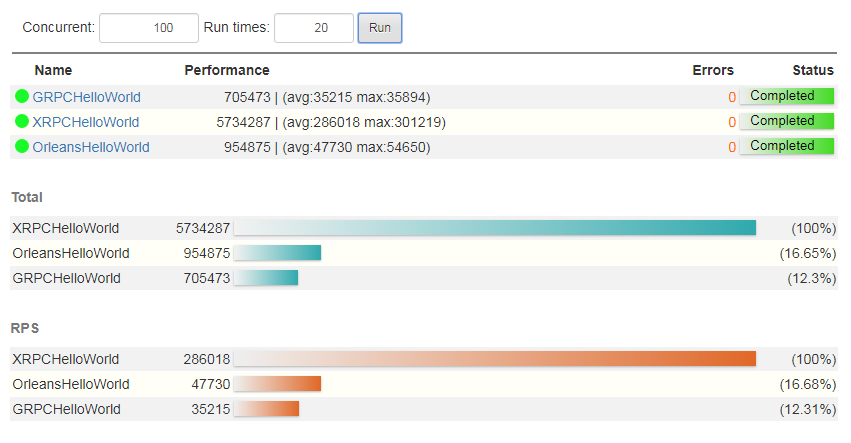
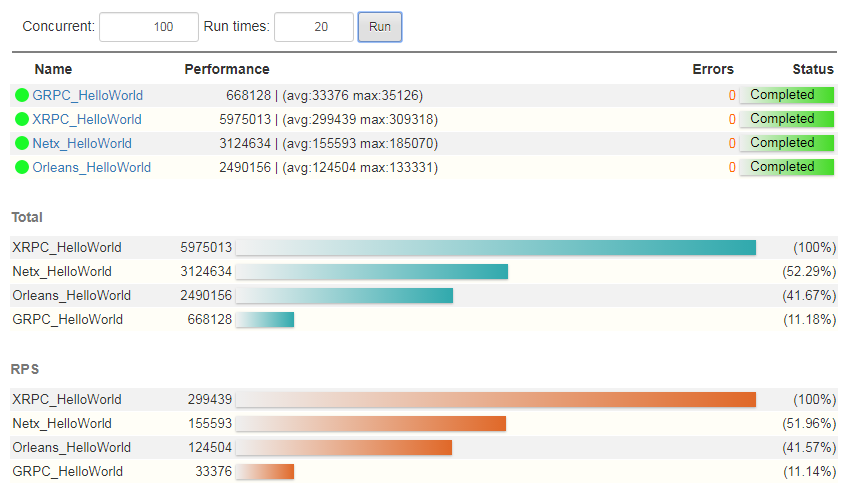
change orleans grpc netx examples

diff --git a/RPCBenchmark/Examples/NetXHelloWorld.cs b/RPCBenchmark/Examples/NetXHelloWorld.cs
@@ -10,36 +10,36 @@ namespace RPCBenchmark.Examples
 {
     public class NetxHandler
     {
-        public NetxHandler()
+        static NetxHandler()
         {
-            Client = new NetxSClientBuilder()
-                .ConfigConnection(p =>
-                {
-                    p.Host = Setting.SERVER_HOST;
-                    p.Port = 50054;
-                    p.VerifyKey = "11111";
-                    p.ServiceName = "hellowordservice";
-                    p.RequestTimeOut = 0;
-                })
-                .Build();
-            Greeter = Client.Get<ITestServer>();
-        }
-
-        public INetxSClient Client { get; private set; }
-
-        public ITestServer Greeter { get; private set; }
-
-        private static NetxHandler mSingle;
-
-        public static NetxHandler Single
-        {
-            get
+            for(int i=0;i<3;i++)
             {
-                if (mSingle == null)
-                    mSingle = new NetxHandler();
-                return mSingle;
+               var client = new NetxSClientBuilder()
+               .ConfigConnection(p =>
+               {
+                   p.Host = Setting.SERVER_HOST;
+                   p.Port = 50054;
+                   p.VerifyKey = "11111";
+                   p.ServiceName = "hellowordservice";
+                   p.RequestTimeOut = 0;
+               })
+               .Build();
+                mClients.Add(client);
             }
         }
+
+        private static long mIndex;
+
+        public static ITestServer GetClient()
+        {
+            long index = System.Threading.Interlocked.Increment(ref mIndex);
+            return mClients[(int)(index % mClients.Count)].Get<ITestServer>();
+        }
+
+
+        private static List<NetxSClient> mClients = new List<NetxSClient>();
+
+       
     }
     [System.ComponentModel.Category("RPC")]
     public class Netx_HelloWorld : CodeBenchmark.IExample
@@ -56,7 +56,7 @@ namespace RPCBenchmark.Examples
 
         public void Initialize(Benchmark benchmark)
         {
-            _greeter = NetxHandler.Single.Greeter;
+            _greeter = NetxHandler.GetClient();
         }
 
         private ITestServer _greeter;

diff --git a/RPCBenchmark/Examples/OrleansHelloWorld.cs b/RPCBenchmark/Examples/OrleansHelloWorld.cs
@@ -20,10 +20,28 @@ namespace RPCBenchmark.Examples
 
     class OrleansHandler
     {
-        
+
         static OrleansHandler()
         {
-            Client = new ClientBuilder()
+
+            for (int i = 0; i < 3; i++)
+            {
+                Clients.Add(CreateClient());
+            }
+        }
+        static readonly List<IClusterClient> Clients = new List<IClusterClient>();
+
+        static long mIndex;
+
+        public static IGreeterGrains GreeterGrains()
+        {
+            var index = System.Threading.Interlocked.Increment(ref mIndex);
+            return Clients[(int)(index % Clients.Count)].GetGrain<IGreeterGrains>(index);
+        }
+
+        static IClusterClient CreateClient()
+        {
+            var client = new ClientBuilder()
           .UseStaticClustering(new IPEndPoint[] { new IPEndPoint(IPAddress.Parse(Setting.SERVER_HOST), 50053) })
           .Configure<ClusterOptions>(options =>
           {
@@ -38,23 +56,20 @@ namespace RPCBenchmark.Examples
           })
           .Build();
 
-            Client.Connect().GetAwaiter().GetResult();
-            GreeterGrains = Client.GetGrain<IGreeterGrains>(0);
+            client.Connect().GetAwaiter().GetResult();
+            return client;
         }
-        public static readonly IClusterClient Client;
-
-        public static readonly IGreeterGrains GreeterGrains;
 
     }
 
     [System.ComponentModel.Category("RPC")]
     public class Orleans_HelloWorld : CodeBenchmark.IExample
     {
-        
+
         static Orleans_HelloWorld()
         {
 
-          
+
 
         }
         public void Dispose()
@@ -63,13 +78,14 @@ namespace RPCBenchmark.Examples
 
         public async Task Execute()
         {
-            var result = await OrleansHandler.GreeterGrains.SayHello(new HelloRequest { Name = "you" });
+            var result = await GreeterGrains.SayHello(new HelloRequest { Name = "you" });
         }
 
         public void Initialize(Benchmark benchmark)
         {
-
+            GreeterGrains = OrleansHandler.GreeterGrains();
         }
-     
+
+        IGreeterGrains GreeterGrains;
     }
 }

diff --git a/RPCBenchmark/Examples/GRPCHelloWorld.cs b/RPCBenchmark/Examples/GRPCHelloWorld.cs
@@ -13,14 +13,24 @@ namespace RPCBenchmark
     {
         static GRPCHandler()
         {
-            Client = new Channel($"{Setting.SERVER_HOST}:50051", ChannelCredentials.Insecure);
-
-            Greeter = new Greeter.GreeterClient(Client);
+                  
+            for(int i=0;i<3;i++)
+            {
+                var client = new Channel($"{Setting.SERVER_HOST}:50051", ChannelCredentials.Insecure);
+                mClients.Add(new Greeter.GreeterClient(client));
+            }
         }
 
-        public readonly static Channel Client;
+        static List<Greeter.GreeterClient> mClients = new List<Greeter.GreeterClient>();
 
-        public readonly static Greeter.GreeterClient Greeter;
+        static long mIndex;
+
+        public static Greeter.GreeterClient GetClient()
+        {
+            var index = System.Threading.Interlocked.Increment(ref mIndex);
+            return mClients[(int)(mIndex % mClients.Count)];
+        }
+
     }
 
 
@@ -35,13 +45,15 @@ namespace RPCBenchmark
 
         public async Task Execute()
         {
-            var result = await GRPCHandler.Greeter.SayHelloAsync(new HelloRequest { Name = "you" });
+            var result = await Greeter.SayHelloAsync(new HelloRequest { Name = "you" });
         }
 
         public void Initialize(Benchmark benchmark)
         {
-
+            Greeter = GRPCHandler.GetClient();
         }
+
+        private Greeter.GreeterClient Greeter;
     }
 
 }

diff --git a/Orleans/Greeter.Grains/GreeterGrains.cs b/Orleans/Greeter.Grains/GreeterGrains.cs
@@ -5,7 +5,7 @@ using System.Threading.Tasks;
 
 namespace OGreeter.Grains
 {
-    [Reentrant]
+    [StatelessWorker]
     public class GreeterGrains :Orleans.Grain, IGreeterGrains
     {
         public Task<HelloReply> SayHello(HelloRequest request)
